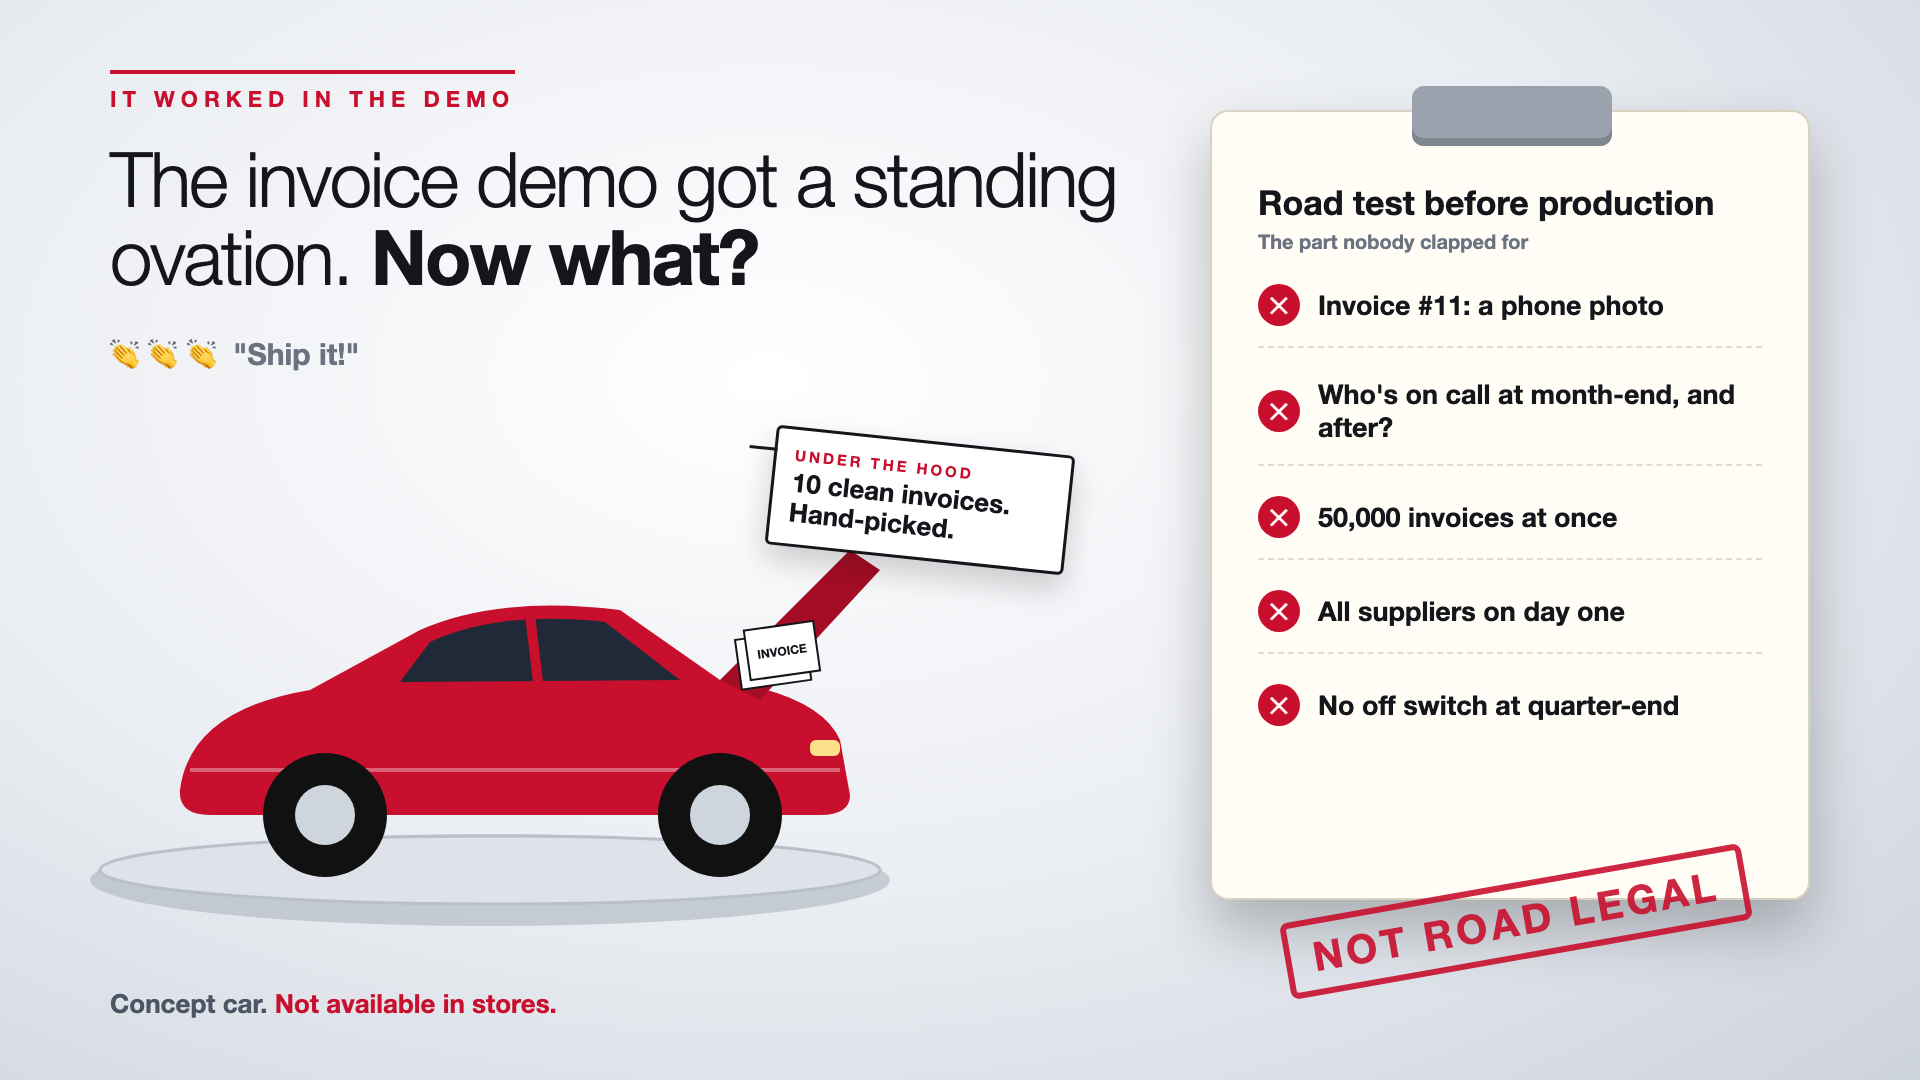
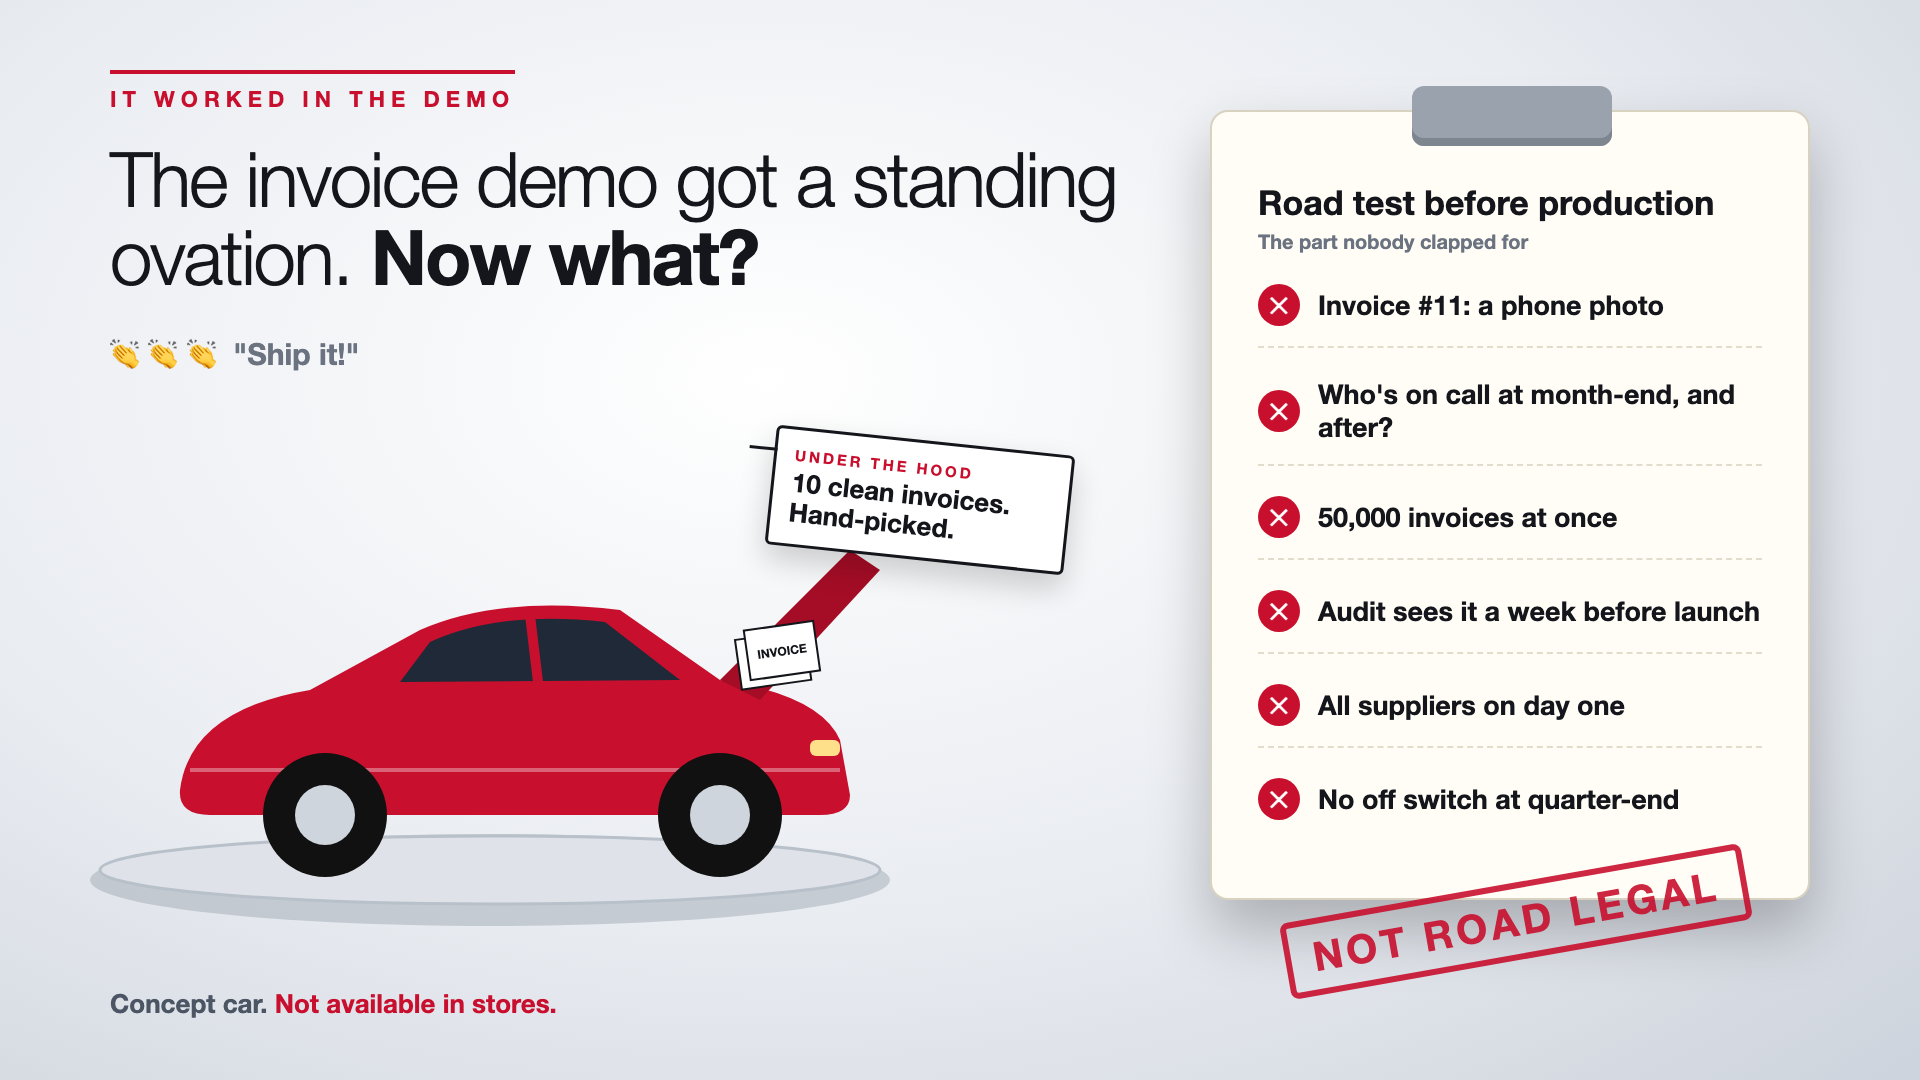
JustAddRAG: drop estimates and adoption write-ups, finale becomes write-up 15; topics move to Series 3 and 4

Changed region(s): [[0.6875, 0.55, 0.9375, 0.5806], [0.6562, 0.7028, 0.875, 0.7639], [0.6875, 0.6417, 0.875, 0.6722]]

diff --git a/01-just-add-rag/14-finale-checklist.md b/01-just-add-rag/14-finale-checklist.md
@@ -1,14 +1,14 @@
-# 17. So, Should You Really "Just Add RAG"? | The Checklist
+# 15. So, Should You Really "Just Add RAG"? | The Checklist
 
-![Cover](images/16-finale-checklist-cover.png)
+![Cover](images/14-finale-checklist-cover.png)
 
 *Just add RAG series: The checklist*
 
-After fifteen write-ups about everything that goes wrong, you might expect the answer to be "no".
+After thirteen write-ups about everything under the water, you might expect the answer to be "no".
 
 It isn't. I still like RAG. My passport assistant answered the question correctly on day one, and that's real. The answer is yes, with your eyes open, a real plan, and a budget for what's under the water.
 
-This last write-up puts the whole series on one page: when RAG fits, when it doesn't, and the checklist I'd now take into any kickoff meeting.
+This last write-up puts the whole series on one page: when RAG fits, when it doesn't, why it really takes six months, and the checklist I'd now take into any kickoff meeting.
 
 ## When RAG is a good fit
 
@@ -43,8 +43,8 @@ One question for each piece of the iceberg. If the team has a clear answer, tick
 - [ ] **Privacy:** Is there a map of every place user data goes, and has the deletion test passed?
 - [ ] **Observability:** Can the team explain a wrong answer from the logs in five minutes?
 - [ ] **Model changes:** Which exact model versions are live, and who reads the deprecation emails?
-- [ ] **Estimates:** Was every layer estimated, including expert time?
-- [ ] **Adoption:** How will we know it's worth it, and what's the week-two return rate?
+- [ ] **Plan:** Was every layer estimated, with the experts' time booked in advance?
+- [ ] **Launch:** Is there a pilot first, and how many of week one's users come back in week two?
 
 ## How to read your score
 
@@ -53,6 +53,22 @@ One question for each piece of the iceberg. If the team has a clear answer, tick
 - **Fewer than 7:** you have a very nice demo. Treat the gaps as the real plan, and budget for them.
 
 No shame in a low score on day one. Every question on that list was one I couldn't answer when my passport demo first worked.
+
+## So why 6 months, not 2 weeks?
+
+The first write-up asked it. Here's the honest answer.
+
+The demo is the tip of the iceberg. It works on clean documents, one user, friendly questions and nobody's personal data. Everything in this series is the rest: thirteen layers, each with its own work, tests and reviews.
+
+A plan that tends to survive reality:
+
+1. **Discovery:** open 50 real documents, write 50 real test questions, agree what "good" means.
+2. **A thin version of everything:** every layer working end to end, basic but measured.
+3. **Improve with tests:** fix the weakest layer first, as the scores show.
+4. **Pilot:** a small group of real users, watched closely.
+5. **Scale:** a wider rollout, with an owner and a running budget.
+
+Two things make the biggest difference. Book the experts who know the right answers, the way you'd book a meeting room. And after launch, watch one number: of the people who tried it in week one, how many came back in week two, without being reminded?
 
 ## What I'd do differently, starting again
 
@@ -101,7 +117,7 @@ And tell me one last time: how many boxes did your project tick?
 **Post text (copy and paste):**
 
 ```
-Sixteen write-ups later: should you really "just add RAG"?
+Fourteen write-ups later: should you really "just add RAG"?
 
 Yes. With your eyes open, a real plan, and a budget for what's under the water.
 
@@ -111,7 +127,7 @@ Say "just add RAG" without checking the iceberg, and you pay for it in all of th
 • Cost and speed: a bigger bill and slower answers than anyone planned
 • Time: a two-week idea becomes a six-month project
 
-Write-up 17, the final one, in my #JustAddRAG series: when RAG fits and when it doesn't, plus the whole iceberg as one 15-question checklist you can take into any kickoff meeting.
+Write-up 15, the final one, in my #JustAddRAG series: when RAG fits and when it doesn't, why it takes six months and not two weeks, plus the whole iceberg as one 15-question checklist you can take into any kickoff meeting.
 
 How many boxes does your project tick?
 

diff --git a/04-poc-to-production/README.md b/04-poc-to-production/README.md
@@ -18,9 +18,11 @@
 | 2 | Why Does It Work on 10 Invoices and Fail on 10,000? | Demos are hand-picked. Suppliers aren't. | Real data, edge cases, messy formats | Multi-page invoices, handwritten notes, three currencies | Planned |
 | 3 | Who Owns It at Month-End, and Every Month After? | A POC has fans. Production needs owners. | Ownership, on-call, runbooks, a maintenance budget | Month-end close stuck; a big supplier changes its invoice layout | Planned |
 | 4 | What Happens When 50,000 Invoices Arrive at Once? | One invoice isn't a load test. | Scale, queues, rate limits, cost at volume | Quarter-end backlog, everything slows down | Planned |
-| 5 | How Do You Roll It Out Without Betting the Quarter? | Start small, then widen. | Limited rollout, go/no-go gates, the launch pack | 5% of suppliers first, the rest after month-end | Planned |
-| 6 | Can You Switch It Off Without Stopping Finance? | Every AI system needs an off switch and a plan B. | Kill switch, manual fallback, graceful degradation | The model provider is down on the last day of the quarter | Planned |
-| 7 | So, Is Your POC Ready for Production? | Six write-ups, one checklist. | Finale: the production-readiness checklist | The invoice system, launch checklist in hand | Planned |
+| 5 | How Long Will It Really Take? | The demo took a week. Production won't. | Estimating every layer, experiments that may fail, booking experts' time, a phased plan | "It reads invoices already, so four more weeks?" | Planned |
+| 6 | Is Audit Seeing It for the First Time a Week Before Launch? | Late reviews become late launches. | Bringing audit, security and compliance in early | "Who approved this payment, the AI?" | Planned |
+| 7 | How Do You Roll It Out Without Betting the Quarter? | Start small, then widen. | Limited rollout, go/no-go gates, the launch pack | 5% of suppliers first, the rest after month-end | Planned |
+| 8 | Can You Switch It Off Without Stopping Finance? | Every AI system needs an off switch and a plan B. | Kill switch, manual fallback, graceful degradation | The model provider is down on the last day of the quarter | Planned |
+| 9 | So, Is Your POC Ready for Production? | Eight write-ups, one checklist. | Finale: the production-readiness checklist | The invoice system, launch checklist in hand | Planned |
 
 ## Format (same as #JustAddRAG)
 

diff --git a/01-just-add-rag/README.md b/01-just-add-rag/README.md
@@ -20,9 +20,7 @@ A write-up is marked **Published** only once it is live on LinkedIn.
 | 12 | [Where did your user's passport just travel to?](11-privacy.md) | Privacy, residency, compliance, right to delete | **Published** 13 October 2026 | [Read](https://www.linkedin.com/pulse/12-where-did-your-users-passport-just-travel-privacy-compliance-jain-hcy7f) |
 | 13 | [When your AI gives a wrong answer, can you tell why?](12-observability.md) | Observability | **Published** 14 October 2026 | [Read](https://www.linkedin.com/pulse/13-when-your-ai-gives-wrong-answer-can-you-tell-why-arpit-jain-m4kff) |
 | 14 | [Nobody touched the code. Why did the answers change?](13-model-changes.md) | Model updates, consistency, vendor lock-in | **Published** 14 October 2026 | [Read](https://www.linkedin.com/pulse/14-nobody-touched-code-why-did-answers-change-model-changes-jain-suxrf/) |
-| 15 | [The demo works, so why isn't it 4 weeks from production?](14-estimates.md) | Estimates, expert time | Draft for review | |
-| 16 | [You built it. Why isn't anyone using it?](15-adoption.md) | Success metrics, ROI, adoption | Draft for review | |
-| 17 | [So, should you really "just add RAG"?](16-finale-checklist.md) | Finale: the checklist | Draft for review | |
+| 15 | [So, should you really "just add RAG"?](14-finale-checklist.md) | Finale: the checklist | Draft for review | |
 
 Write-ups are numbered from 1 in titles and posts, for easy reference. There is no fixed schedule.
 

diff --git a/03-ai-transformation/README.md b/03-ai-transformation/README.md
@@ -21,7 +21,8 @@
 | 5 | Did the Training Teach Tools or Habits? | A two-hour session doesn't change a ten-year habit. | Role-based learning, champions, practice | Everyone learned prompts; nobody learned when to use them | Planned |
 | 6 | Which Jobs Change, and How? | AI doesn't replace a role. It reshapes the day. | Redesigning roles, skills and career paths around AI | Agents type less and handle more angry customers: who trains them for that? | Planned |
 | 7 | Who Writes the Rules for Using AI? | Every tool needs rules, or everyone makes up their own. | AI usage policy and governance: what's allowed, what isn't, who decides | Can agents paste a customer's details into the AI? Nobody knows | Planned |
-| 8 | So, Is Your Company Transforming or Just Subscribing? | Seven write-ups, one checklist. | Finale: the transformation checklist | The support floor, six months later | Planned |
+| 8 | How Do You Know It's Actually Working? | "Everyone logs in" isn't a result. | Baselines before launch, outcome metrics vs vanity metrics, the week-two return rate, honest ROI | Handling time and repeat contacts: nobody measured them before the rollout | Planned |
+| 9 | So, Is Your Company Transforming or Just Subscribing? | Eight write-ups, one checklist. | Finale: the transformation checklist | The support floor, six months later | Planned |
 
 ## Format (same as #JustAddRAG)
 

diff --git a/04-poc-to-production/01-curtain-raiser.md b/04-poc-to-production/01-curtain-raiser.md
@@ -34,6 +34,8 @@ This write-up is the first in a series. Each one takes one piece of the road tes
 - Why does it work on 10 invoices and fail on 10,000? (Real data)
 - Who gets called when it breaks at month-end? (Ownership)
 - What happens when 50,000 invoices arrive at once? (Scale)
+- How long will it really take? (Honest estimates)
+- Is audit seeing it for the first time a week before launch? (Early reviews)
 - How do you roll it out without betting the quarter? (Limited rollout)
 - Can you switch it off without stopping finance? (Plan B)
 

diff --git a/01-just-add-rag/13-model-changes.md b/01-just-add-rag/13-model-changes.md
@@ -98,7 +98,7 @@ Models have expiry dates too. Just like my passport.
 
 You can rent the brain. Just don't let it move in.
 
-Next write-up (15): **The demo works, so why isn't it 4 weeks from production?** (Estimates)
+Next write-up (15), the finale: **So, should you really "just add RAG"?** (The checklist)
 
 Follow me for the next one. And tell me: has a model update ever changed your AI's answers without warning?
 

diff --git a/03-ai-transformation/01-curtain-raiser.md b/03-ai-transformation/01-curtain-raiser.md
@@ -38,6 +38,7 @@ This write-up is the first in a series. Each one takes one piece of the plan and
 - Who is quietly afraid of the AI? (Fear and trust)
 - Did the training teach tools or habits? (Learning that sticks)
 - Which jobs change, and how? (Redesigning roles)
+- How do you know it's actually working? (Baselines and outcomes)
 
 ...and more, through to who writes the rules for using AI.
 
